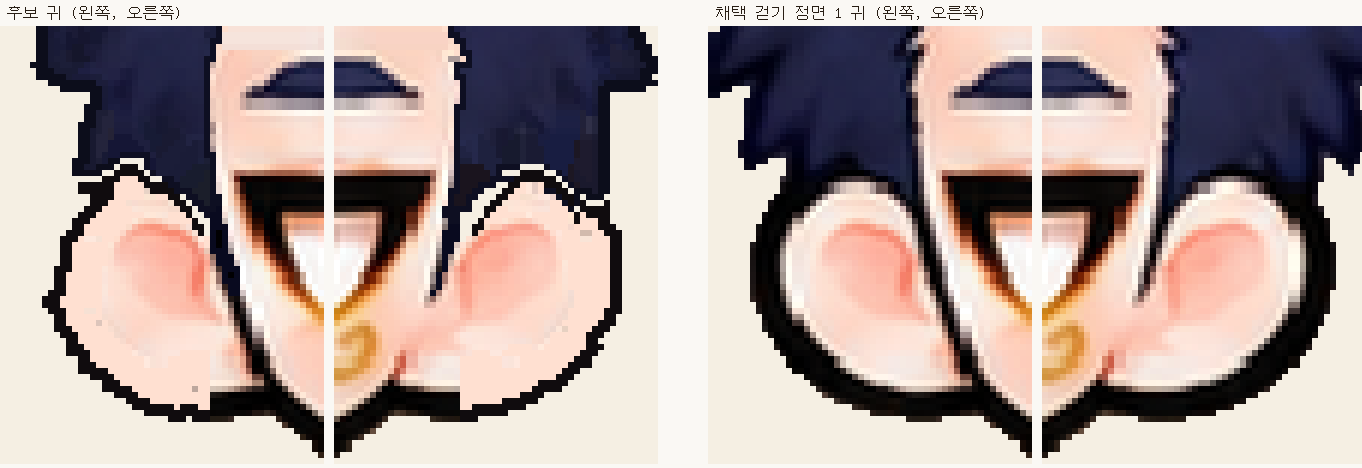
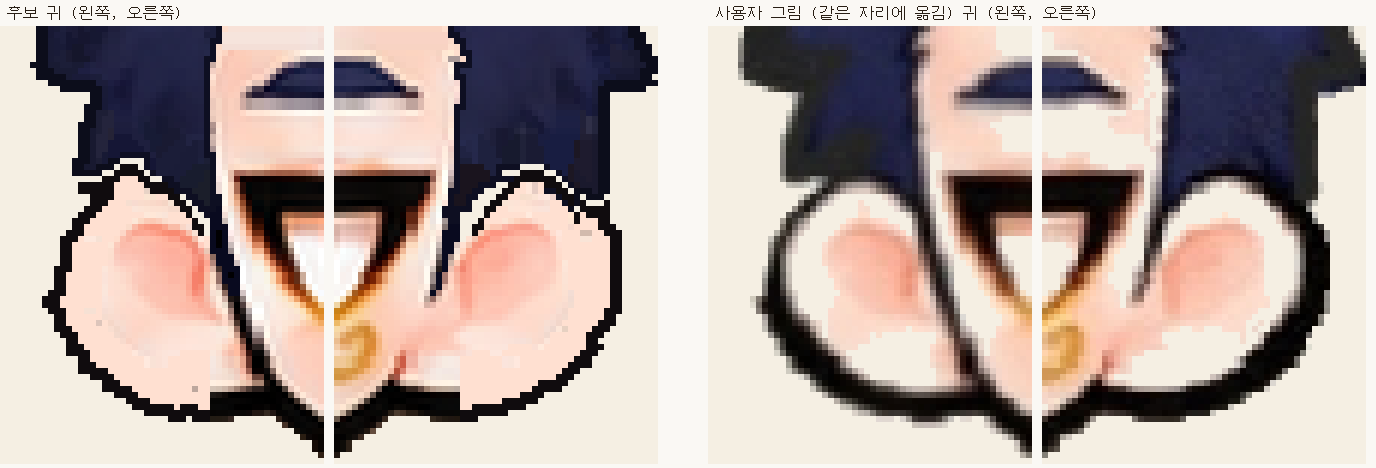
호루스 귀 선 기준을 사용자 그림(필압 있는 선)으로, 귀 비교 그림도 사용자 그림과 나란히
Claude-Session: https://claude.ai/code/session_01VEprA6JeTcQVX6tKD4oAcT

diff --git a/tools/art/check-hair.py b/tools/art/check-hair.py
@@ -220,10 +220,10 @@ def guide():
     return GUIDE_CACHE
 
 
-def ear_thickness(dark, rim, head, zone, sil):
-    # dark pixels within 5 px inside the ear's edge, per pixel of edge: the outline's average thickness
+def ear_thickness(dark, rim, head, zone, sil, d):
+    # dark pixels within 5 px inside the ear's edge, per pixel of edge, per eye distance: the outline's weight
     band = grow(rim, 5) & head & zone & ~grow(sil, 2)
-    return round(float((dark & band).sum() / max(rim.sum(), 1)), 2)
+    return round(float((dark & band).sum() / max(rim.sum(), 1) / d), 4)
 
 
 def ear_boxes(ears, e):
@@ -241,53 +241,39 @@ def ear_boxes(ears, e):
 
 
 def ear_sheet(res, path):
-    # the candidate's ears beside the adopted walk frame's, 6×, to see line thickness and shape
+    # the candidate's ears beside the user's drawing moved onto the same frame, 6×: line weight, smoothness, shape
     rgb = res['_draw'][0]; body = res['_draw'][1]
-    ref = compare_ref()
-    rows = []
-    for name, (r_rgb, r_body, boxes) in (('후보', (rgb, body, res['_earBoxes'])), ('채택 걷기 정면 1', ref)):
-        pic = np.ones((*r_rgb.shape[:2], 3)) * np.array([245, 239, 227]) / 255
-        pic[r_body] = r_rgb[r_body]; pic = Image.fromarray((pic * 255).astype(np.uint8))
-        tiles = [pic.crop(b).resize(((b[2] - b[0]) * 6, (b[3] - b[1]) * 6), Image.NEAREST) for b in boxes if b]
-        rows.append((name, tiles))
-    w = sum(t.width for t in rows[0][1]) + sum(t.width for t in rows[1][1]) + 60
-    h = max(t.height for _, ts in rows for t in ts) + 30
+    g = guide()
+    e = res['_eyesRaw']
+    user, _ = place((g['rgb'] * 255).astype(np.uint8), g['eyes'], e, body.shape, fill=0)
+    user[~place(g['body'], g['eyes'], e, body.shape)[0]] = (245, 239, 227)
+    pic = np.ones((*rgb.shape[:2], 3)) * np.array([245, 239, 227]) / 255
+    pic[body] = rgb[body]; pic = Image.fromarray((pic * 255).astype(np.uint8))
+    rows = [('후보', pic), ('사용자 그림 (같은 자리에 옮김)', Image.fromarray(user))]
+    boxes = [b for b in res['_earBoxes'] if b]
+    tiles = [(name, [im.crop(b).resize(((b[2] - b[0]) * 6, (b[3] - b[1]) * 6), Image.NEAREST) for b in boxes]) for name, im in rows]
+    w = sum(t.width for _, ts in tiles for t in ts) + 10 * len(boxes) * 2 + 40
+    h = max(t.height for _, ts in tiles for t in ts) + 30
     cv = Image.new('RGB', (w, h), (250, 248, 244)); d = ImageDraw.Draw(cv); x = 0
-    for name, ts in rows:
+    for name, ts in tiles:
         d.text((x + 6, 4), name + ' 귀 (왼쪽, 오른쪽)', fill=(40, 30, 20), font=FONT)
         for t in ts: cv.paste(t, (x, 26)); x += t.width + 10
         x += 40
     cv.save(path)
 
 
-REF_CACHE = {}
-
-
-def compare_ref():
-    if 'v' not in REF_CACHE:
-        p = os.path.join(WALK, 'horus-front-1.png')
-        rgb, body = load(p); e, _, _ = eyes(rgb, body)
-        g = guide(); sil, _ = hair_mask(rgb, body, e)
-        zone, _ = place(g['ears'], g['eyes'], e, body.shape)
-        REF_CACHE['v'] = (rgb, body, ear_boxes(head_mask(rgb, body, e) & zone & ~grow(sil, 1), e))
-    return REF_CACHE['v']
-
-
 EAR_REF = {}
 
 
 def ear_ref():
-    # the adopted front walk frame's ear line, measured the same way
+    # the user's own ear line, as thickness per eye distance so any picture size compares
     if 'v' not in EAR_REF:
         g = guide()
-        rgb, body = load(os.path.join(WALK, 'horus-front-1.png'))
-        e, _, _ = eyes(rgb, body)
-        sil, _ = hair_mask(rgb, body, e)
-        zone, _ = place(g['ears'], g['eyes'], e, body.shape)
-        head = head_mask(rgb, body, e)
-        dark = (hsv(rgb)[2] < 0.22) & body
-        rim = edge(head) & zone & grow(~body, 1) & ~grow(sil, 2)
-        EAR_REF['v'] = ear_thickness(dark, rim, head, zone, sil)
+        d = abs(g['eyes'][1][0] - g['eyes'][0][0])
+        dark = (hsv(g['rgb'])[2] < 0.3) & g['body']
+        rim = edge(g['head']) & g['ears'] & grow(~g['body'], 1) & ~grow(g['sil'], 2)
+        band = grow(rim, max(5, int(round(5 * d / 62)))) & g['head'] & g['ears'] & ~grow(g['sil'], 2)
+        EAR_REF['v'] = round(float((dark & band).sum() / max(rim.sum(), 1) / d), 4)
     return EAR_REF['v']
 
 
@@ -301,7 +287,7 @@ def compare(path):
     outer, _ = place(g['outer'], g['eyes'], e, body.shape)
     hairline, _ = place(g['hairline'], g['eyes'], e, body.shape)
     ce = edge(sil); cbe = edge(blue)
-    res = {'path': os.path.relpath(path, ROOT), 'eyes': [[round(x, 1), round(y, 1)] for x, y in e], 'transform': tf}
+    res = {'path': os.path.relpath(path, ROOT), 'eyes': [[round(x, 1), round(y, 1)] for x, y in e], 'transform': tf, '_eyesRaw': e}
     for name, pts_mask, against in (('outer', outer, ce), ('hairline', hairline, cbe)):
         ys, xs = np.nonzero(pts_mask)
         d = dist_to(against, np.stack([xs, ys], 1).astype(float)) if len(ys) else np.array([0.0])
@@ -332,8 +318,9 @@ def compare(path):
     erim = edge(chead) & tears & grow(~body, 1) & ~grow(sil, 2)
     elined = erim & dark & grow(dark & chead & ~erim, 1)
     res['earOutline'] = round(float(elined.sum() / max(erim.sum(), 1)), 3)
-    # and as thick as the adopted ears' line (a thin, stair-stepped line reads as a scratched-in ear)
-    res['earThick'] = ear_thickness(dark, erim, chead, tears, sil)
+    # and about as heavy as the user's own ear line (the user wants that brush weight, not the old walk's)
+    dark30 = (v_ < 0.3) & body
+    res['earThick'] = ear_thickness(dark30, erim, chead, tears, sil, abs(e[1][0] - e[0][0]))
     res['earThickRef'] = ear_ref()
     res['_earBare'] = erim & ~elined
     off = np.zeros_like(body)
@@ -383,7 +370,7 @@ def verdict(r):
     if r['outlineCover'] < OUTLINE_MIN: return '**외곽선 없음 (잘라만 냄)**'
     if r['ears']['within2px'] < 0.85 or r['ears']['max'] > 4: return '**귀 모양 다름**'
     if r['earOutline'] < OUTLINE_MIN: return '**귀 외곽선 깨짐**'
-    if r['earThick'] < 0.85 * r['earThickRef']: return '**귀 외곽선 얇음**'
+    if r['earThick'] < 0.8 * r['earThickRef']: return '**귀 외곽선 얇음**'
     return '사용자 모양과 같음' if ok else '**다름**'
 
 
@@ -395,9 +382,9 @@ def report(results, out):
         o, h = r['outer'], r['hairline']
         L.append(f"| [{os.path.basename(r['path'])}]({os.path.splitext(os.path.basename(r['path']))[0]}-hair.png) | "
                  f"{o['mean']}/{o['max']}px, {o['within2px'] * 100:.0f}% | {h['mean']}/{h['max']}px, {h['within2px'] * 100:.0f}% | "
-                 f"{r['missingPx']}/{r['extraPx']} | {r['outlineCover'] * 100:.0f}% | {r['ears']['within2px'] * 100:.0f}%, {r['ears']['max']}px | {r['earOutline'] * 100:.0f}%, {r['earThick']}px | {verdict(r)} |")
+                 f"{r['missingPx']}/{r['extraPx']} | {r['outlineCover'] * 100:.0f}% | {r['ears']['within2px'] * 100:.0f}%, {r['ears']['max']}px | {r['earOutline'] * 100:.0f}%, 굵기 {r['earThick'] * 100:.1f}/{r['earThickRef'] * 100:.1f} | {verdict(r)} |")
     L += ['', '통과 기준: 바깥 외곽선 90% 이상이 2px 안, 최대 4px. 이마선 85% 이상이 2px 안, 최대 5px.',
-          '귀: 사용자 귀 윤곽(동그란 윗부분, 머리카락과 틈)과 후보 귀 윤곽이 서로 85% 이상 2px 안, 최대 4px. 들쭉날쭉하거나 찌그러진 귀는 보라로 표시된다. 귀 가장자리도 머리처럼 검은 외곽선이 80% 이상이어야 하고(흰 점, 끊긴 선은 주황), 두께가 채택 걷기 귀 선의 85% 이상이어야 한다.',
+          '귀: 사용자 귀 윤곽(동그란 윗부분, 머리카락과 틈)과 후보 귀 윤곽이 서로 85% 이상 2px 안, 최대 4px. 들쭉날쭉하거나 찌그러진 귀는 보라로 표시된다. 귀 가장자리도 머리처럼 검은 외곽선이 80% 이상이어야 하고(흰 점, 끊긴 선은 주황), 굵기(눈 사이 거리 대비)가 사용자 그림 귀 선의 80% 이상이어야 한다. 선 맛(필압, 매끈함)은 숫자로 못 잰다: <이름>-ears.png에서 사용자 그림 귀와 나란히 보고 맞춘다.',
           f'머리 가장자리 {OUTLINE_MIN * 100:.0f}% 이상이 2px 넘는 검은 외곽선이어야 한다. 빨간 선에 맞춰 잘라만 내면 가장자리가 파란 머리색이라 여기서 걸린다(비교 그림의 주황).',
           '숫자를 통과해도 비교 그림을 직접 본다. 최종 판단은 사용자가 한다.']
     open(os.path.join(out, 'report.md'), 'w').write('\n'.join(L) + '\n')

diff --git a/docs/ASTRA-HANDOFF.md b/docs/ASTRA-HANDOFF.md
@@ -99,7 +99,7 @@
 | 긴 회랑5장 | 아트 전부 채택 완료. 적용 대상은5절의139~143번. 게임 적용과 이동·충돌·가림 확인은 오푸스 담당 |
 | 셋소호 정면 정지 선택·GIF | **[150 선택 정면3장](art/chibi-refresh/selected-front-idle-v150/README.md)**: 소망은 사용자가 올린 최종 시안 실제 원본, 세트·호루스는148 정면. 그림 수정 없이 복사하여 채택 걷기와 GIF 구성.149 소망 반려·재사용 금지. 다른 방향 정지의 전체 승인은 별개. 게임 미적용. |
 | 소망 뒤 정지·옷색 / 세트 정면 | [151 검토본](art/chibi-refresh/review-somang-back-v151/README.md). 소망 뒤는 사용자 명시 요청으로 재작화하되 최종 정면 전체 비율·색·도트 기준 유지. 소망 앞뒤 옷색을 걷기·좌우에 맞춤(반대 아님). 세트는 최종 정면 실제 원본을 복사해 GIF 비교. 호루스·걷기·좌우 그대로. 151 채택 대기, 게임 미적용. |
-| 호루스 사용자 수정도 | **155 반려·재사용 금지.** 다리 단축은 **정지 정면만** 해당한다. 채택 걷기 몸·다리·신발·치마 동작은 변경하지 않는다. 먼저 실제 정지 정면 한 장을 보여준다(걷기1을 정지로 제시 금지). 사용자 수정도의 머리 바깥 윤곽을 정확히 맞추고, 이마 높이를 지키면서 짧고 두툼한 헤어에 어울리게 경계를 완성한다. 걷기 적용 때는 원본 각 프레임의 머리 전체 위치·방향·변형과 얼굴/귀/목 접합을 먼저 확인한다. 고정 좌표 헤어 패치 덮어쓰기 금지. 기준 걷기 원본은 `review-trio-walk-v5/walk/`에 보존돼 있다. **머리 모양 기준은 [horus-hair-guide](art/chibi-refresh/horus-hair-guide/README.md)**: 사용자 최종 수정본 `user-edit-final.jpg`(이전 수정본은 대체됨), 걷기 정면 프레임마다 머리가 있어야 할 자리(`targets/`)와 머리 이동 표. 이마선은 위치·높이만 사용자 수정본을 따르고, 선은 새로 그린다: 짧고 두툼한 머리 모양과 어울리게, 호루스 도트식 외곽선·명암으로 머리카락 끝이 이마에 내려오는 갈래를 그린다. 살색만 칠해 경계를 만들거나 사용자 수정본 픽셀을 붙여넣지 않는다. 귀는 양쪽 모두 사용자 그림처럼 윗부분까지 동그랗게 보이고 머리카락과 사이에 틈을 둔다(빨간 선에 포함). 턱·얼굴 아래쪽은 고칠 대상이 아니라 빨간 선이 없다. 턱을 늘리거나 줄이지 않는다. 정면 정지 몸은 `targets/idle-front-target.png`대로 치마 아래 다리를 걷기처럼 9px로 줄이고 신발을 걷기 높이로 맞춘다(치마 끝·발바닥 위치 유지). 뒤 정지도 `targets/idle-back-target.png`대로 다리를 걷기 뒤처럼 12px(지금 18px)로 줄이고 신발을 걷기 높이로 맞춘다. 보내기 전에 `python3 tools/art/check-hair.py <후보>`로 바깥 외곽선과 이마선이 통과하는지 확인한다. 빨간 선에 맞춰 잘라내기만 하면 안 된다: 모양을 맞춘 뒤 머리 바깥 검은 외곽선과 명암을 도트식으로 다시 그린다. 가장자리 외곽선이 80% 미만이면 "외곽선 없음 (잘라만 냄)"으로 실패한다. 귀 외곽선도 채택 걷기 귀처럼 두껍고 매끈하게(약 4~5px) 그린다. 얇거나 계단처럼 들쭉날쭉하면 "귀 외곽선 얇음"으로 실패한다. |
+| 호루스 사용자 수정도 | **155 반려·재사용 금지.** 다리 단축은 **정지 정면만** 해당한다. 채택 걷기 몸·다리·신발·치마 동작은 변경하지 않는다. 먼저 실제 정지 정면 한 장을 보여준다(걷기1을 정지로 제시 금지). 사용자 수정도의 머리 바깥 윤곽을 정확히 맞추고, 이마 높이를 지키면서 짧고 두툼한 헤어에 어울리게 경계를 완성한다. 걷기 적용 때는 원본 각 프레임의 머리 전체 위치·방향·변형과 얼굴/귀/목 접합을 먼저 확인한다. 고정 좌표 헤어 패치 덮어쓰기 금지. 기준 걷기 원본은 `review-trio-walk-v5/walk/`에 보존돼 있다. **머리 모양 기준은 [horus-hair-guide](art/chibi-refresh/horus-hair-guide/README.md)**: 사용자 최종 수정본 `user-edit-final.jpg`(이전 수정본은 대체됨), 걷기 정면 프레임마다 머리가 있어야 할 자리(`targets/`)와 머리 이동 표. 이마선은 위치·높이만 사용자 수정본을 따르고, 선은 새로 그린다: 짧고 두툼한 머리 모양과 어울리게, 호루스 도트식 외곽선·명암으로 머리카락 끝이 이마에 내려오는 갈래를 그린다. 살색만 칠해 경계를 만들거나 사용자 수정본 픽셀을 붙여넣지 않는다. 귀는 양쪽 모두 사용자 그림처럼 윗부분까지 동그랗게 보이고 머리카락과 사이에 틈을 둔다(빨간 선에 포함). 턱·얼굴 아래쪽은 고칠 대상이 아니라 빨간 선이 없다. 턱을 늘리거나 줄이지 않는다. 정면 정지 몸은 `targets/idle-front-target.png`대로 치마 아래 다리를 걷기처럼 9px로 줄이고 신발을 걷기 높이로 맞춘다(치마 끝·발바닥 위치 유지). 뒤 정지도 `targets/idle-back-target.png`대로 다리를 걷기 뒤처럼 12px(지금 18px)로 줄이고 신발을 걷기 높이로 맞춘다. 보내기 전에 `python3 tools/art/check-hair.py <후보>`로 바깥 외곽선과 이마선이 통과하는지 확인한다. 빨간 선에 맞춰 잘라내기만 하면 안 된다: 모양을 맞춘 뒤 머리 바깥 검은 외곽선과 명암을 도트식으로 다시 그린다. 가장자리 외곽선이 80% 미만이면 "외곽선 없음 (잘라만 냄)"으로 실패한다. 귀 외곽선은 사용자 그림처럼 필압 있는 선으로 그린다: 바깥 곡선과 아래쪽은 굵고 머리카락·얼굴 쪽으로 가늘어지는 매끈한 곡선. 1px 계단선, 뾰족한 귀 윗부분, 끊긴 선, 흰 점 금지. check-hair.py가 만드는 `-ears.png`에서 사용자 그림 귀와 나란히 보고 맞춘다. |
 
 호루스 최신 검토본은 [157 정지 정면 한 장](art/chibi-refresh/review-horus-idle-v157/README.md), **사용자 확인 대기·게임 미적용**. 최종 사용자 머리 목표선에 맞춘 바깥 검은 외곽선·도트 명암·이마선·양쪽 귀, 정지 다리9px/신발329~366행. 최신 check-hair는 ‘사용자 모양과 같음’, 검은 외곽선89%. 턱·목·몸통·치마와 걷기 원본은 보존. 156은 머리 검사 실패한 이전 검토본이며 베이스로 확대 적용하지 않는다. **사용자가157 정면을 오케이한 후에만 걷기 정면3장을 각 프레임 목표선에 맞춰 진행한다.** 뒤 정지도 후속이며 현재 만들지 않았다.155 반려 상태 유지.
 | 개별 수정 검토 | 소망 피부121번, 호루스 이마 경계132번은 별도 채택 확인 전. 최종 정지 시안을 자동 교체하지 않는다 |

diff --git a/docs/art/chibi-refresh/horus-hair-guide/README.md b/docs/art/chibi-refresh/horus-hair-guide/README.md
@@ -116,18 +116,20 @@ python3 tools/art/check-hair.py --targets      # targets/ 다시 만들기
 **귀 검사.**
 - 귀 모양: 사용자 귀 윤곽과 후보 귀 윤곽이 서로 85% 이상 2px 안에 있어야 한다.
 - 귀 외곽선: 가장자리 80% 이상이 검은 외곽선이어야 한다.
-- 귀 외곽선 두께: 채택 걷기 귀 선의 85% 이상이어야 한다. 채택 걷기 귀 선은 4.8px다.
-- 얇고 계단처럼 들쭉날쭉한 선은 "귀 외곽선 얇음"으로 실패한다.
-- `<이름>-ears.png`에 후보 귀와 채택 걷기 귀가 6배로 나란히 나온다.
+- 귀 선 굵기: 평균 굵기(눈 사이 거리 대비)가 **사용자 그림 귀 선**의 80% 이상이어야 한다. 기준은 채택 걷기의 두꺼운 균일한 선이 아니다.
+- **선 맛은 숫자로 못 잰다.** 사용자가 원하는 귀 선은 사용자 그림처럼 필압이 있는 선이다.
+  - 바깥 곡선과 아래쪽은 굵다.
+  - 머리카락과 얼굴에 닿는 쪽으로 가늘어진다.
+  - 곡선은 매끈하다.
+  - 1px 계단선, 뾰족하게 솟은 귀 윗부분, 끊긴 선, 흰 점은 안 된다.
+- `<이름>-ears.png`에 후보 귀와 사용자 그림 귀(같은 자리에 옮김)가 6배로 나란히 나온다. 선 맛은 이 그림으로 맞춘다.
 
 **통과 기준.**
 - 바깥 외곽선: 90% 이상이 2px 안, 최대 4px.
 - 이마선: 85% 이상이 2px 안, 최대 5px.
 - `<이름>-hair.png`에서 왼쪽은 후보 그대로, 오른쪽은 빨간 선(사용자 외곽선)과 모자람·넘침 칠이 보인다.
 
-**지금 결과.**
-- `check-157/`: 157 정지 정면은 머리 모양, 이마선, 머리 외곽선(89%), 귀 모양이 통과한다.
-- 귀 외곽선 두께가 3.0px(채택 4.8px)라 "귀 외곽선 얇음"으로 실패한다. `horus-idle-front-ears.png`에서 귀 선이 1px처럼 얇고 계단처럼 들쭉날쭉한 게 보인다.
+**지금 결과.** `check-157/`: 157 정지 정면은 숫자 항목을 모두 통과한다. 머리 모양, 이마선, 머리 외곽선 89%, 귀 모양, 귀 선 평균 굵기가 사용자 그림과 같은 수준이다. 그래도 `horus-idle-front-ears.png`를 보면 귀 선 맛이 다르다. 157 귀는 1px 계단선이 섞여 들쭉날쭉하고, 윗부분이 뾰족하고, 흰 점이 있다. 사용자 그림 귀는 매끈한 곡선에 바깥쪽이 굵은 필압 선이다.
 
 **한계.**
 - 눈의 금색으로 위치를 찾는다. 정면에서만 쓴다.

diff --git a/docs/art/chibi-refresh/horus-hair-guide/check-157/report.md b/docs/art/chibi-refresh/horus-hair-guide/check-157/report.md
@@ -4,9 +4,9 @@
 
 | 파일 | 바깥 외곽선 평균/최대, 2px 안 | 이마선 평균/최대, 2px 안 | 모자람/넘침 px | 머리 외곽선 | 귀 모양 2px 안, 최대 | 귀 외곽선, 두께 | 판정 |
 |---|---|---|---|---|---|---|---|
-| [horus-idle-front.png](horus-idle-front-hair.png) | 0.26/2.8px, 97% | 1.03/5.0px, 86% | 0/62 | 89% | 99%, 2.8px | 93%, 2.98px | **귀 외곽선 얇음** |
+| [horus-idle-front.png](horus-idle-front-hair.png) | 0.26/2.8px, 97% | 1.03/5.0px, 86% | 0/62 | 89% | 99%, 2.8px | 93%, 굵기 4.8/4.9 | 사용자 모양과 같음 |
 
 통과 기준: 바깥 외곽선 90% 이상이 2px 안, 최대 4px. 이마선 85% 이상이 2px 안, 최대 5px.
-귀: 사용자 귀 윤곽(동그란 윗부분, 머리카락과 틈)과 후보 귀 윤곽이 서로 85% 이상 2px 안, 최대 4px. 들쭉날쭉하거나 찌그러진 귀는 보라로 표시된다. 귀 가장자리도 머리처럼 검은 외곽선이 80% 이상이어야 하고(흰 점, 끊긴 선은 주황), 두께가 채택 걷기 귀 선의 85% 이상이어야 한다.
+귀: 사용자 귀 윤곽(동그란 윗부분, 머리카락과 틈)과 후보 귀 윤곽이 서로 85% 이상 2px 안, 최대 4px. 들쭉날쭉하거나 찌그러진 귀는 보라로 표시된다. 귀 가장자리도 머리처럼 검은 외곽선이 80% 이상이어야 하고(흰 점, 끊긴 선은 주황), 굵기(눈 사이 거리 대비)가 사용자 그림 귀 선의 80% 이상이어야 한다. 선 맛(필압, 매끈함)은 숫자로 못 잰다: <이름>-ears.png에서 사용자 그림 귀와 나란히 보고 맞춘다.
 머리 가장자리 80% 이상이 2px 넘는 검은 외곽선이어야 한다. 빨간 선에 맞춰 잘라만 내면 가장자리가 파란 머리색이라 여기서 걸린다(비교 그림의 주황).
 숫자를 통과해도 비교 그림을 직접 본다. 최종 판단은 사용자가 한다.
